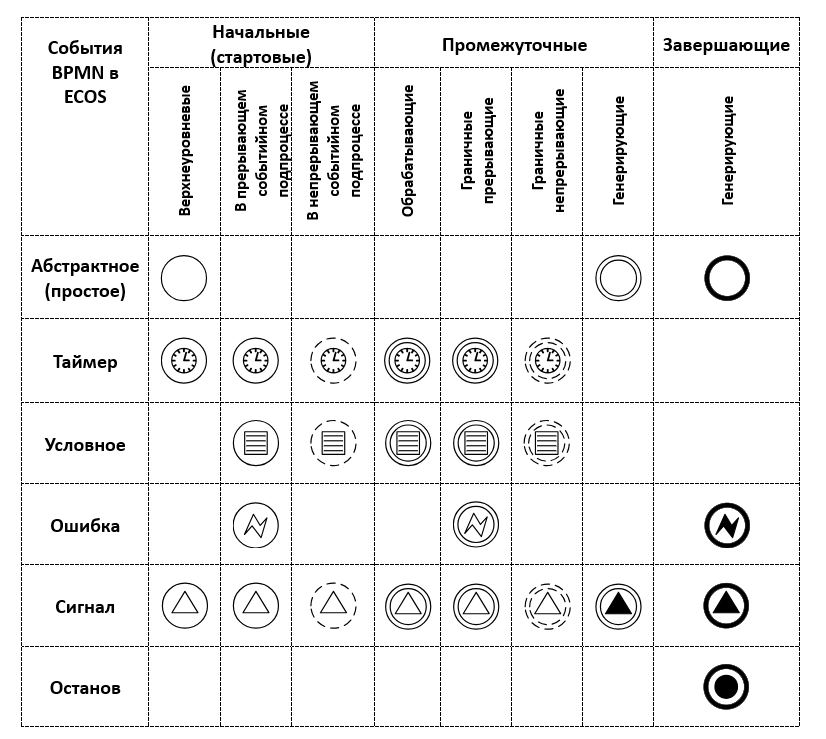
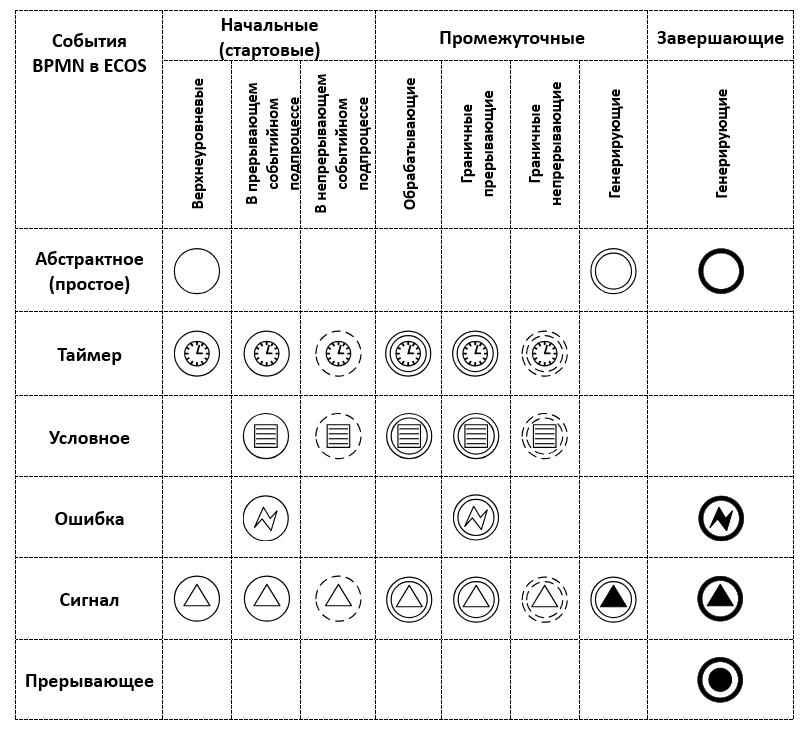
bpmn_review

diff --git a/docs/conf.py b/docs/conf.py
@@ -32,7 +32,9 @@ release = 'Ver. 4'
 extensions = [
  'sphinx.ext.mathjax',
  'sphinx_search.extension', 
+ 'myst_parser'
 ]
+
 
 # Add any paths that contain templates here, relative to this directory.
 templates_path = ['_templates']

diff --git a/docs/settings_kb/processes/ecos_bpmn/editor/ecos_bpmn_components.rst b/docs/settings_kb/processes/ecos_bpmn/editor/ecos_bpmn_components.rst
@@ -3,18 +3,99 @@
 
 .. _ecos_bpmn_components:
 
+Для перехода к соответствующему разделу кликните картинку:
+
+.. list-table::
+      :widths: 10 30
+      :class: tight-table 
+      
+      * - 
+            .. image:: _static/components/user_task.png
+                :width: 100
+                :target: :ref:`Пользовательская задача<user_task>`
+
+        - Пользовательская задача выполняется человеком. При выполнении таких задач обычно требуется ввод данных, манипуляции с объектами и т.д.
+      * - 
+            .. image:: _static/components/script_task.png
+                :width: 100
+                :target: :ref:`Скриптовая задача<script_task>`
+
+        - Задача запускает скрипт (т.е. последовательность действий) или программный код, который выполняется автоматически.
+      * - 
+
+            .. image:: _static/components/notification_task.png
+                :width: 100
+                :target: :ref:`Уведомление<notification>` 
+
+        - Задача используется для отправки уведомлений пользователям
+      * - 
+            .. image:: _static/components/service_task.png
+                :width: 100
+                :target: :ref:`Сервисная задача<service_task>`
+
+        - Задача используется для обозначения подключения сторонних сервисов, не относящихся к среде выполнения бизнес-процесса. 
+      * - 
+            .. image:: _static/components/set_status_task.png
+                :width: 100
+                :target: :ref:`Установка статуса<set_status>`
+
+        - Элемент позволяет производить смену статуса в создаваемом бизнес-процессе.
+      * - 
+            .. image:: _static/components/business_rule_task.png
+                :width: 100
+                :target: :ref:`Задача бизнес-правило<business_rule_task>`
+
+        - Задача бизнес-правило служит для вызова :ref:`решения DMN<dmn_decision>` из процесса BPMN, используется для синхронного выполнения одного или нескольких правил.
+      * - 
+            .. image:: _static/components/gateway.png
+                :width: 100
+                :target: :ref:`Шлюзы<gateways>`
+           
+        - Шлюзы контролируют поток движения в процессе. 
+      * - 
+            .. image:: _static/components/seq_flow.png
+                :width: 100
+                :target: :ref:`Потоки управления<sequential flow>`
+
+        - Поток управления используется для связи элементов потока BPMN (событий, процессов, шлюзов).
+      * - 
+            .. image:: _static/components/subprocess.png
+                :width: 100
+                :target: :ref:`Подпроцесс<sub_process>`
+
+        - Действие, которое может включать в себя: другие действия, шлюзы, события и потоки операций.
+      * - 
+            .. image:: _static/components/events.png
+                :width: 100
+                :target: :ref:`События<bpmn_events>`
+
+        - Элемент потока управления, который отражает состояние, влияющее на ход выполнения процесса. События могут инициировать действия процесса, либо являться их результатами.
+      * - 
+            .. image:: _static/components/multi_instance.png
+                :width: 100
+                :target: :ref:`Многоэкземплярная активность<multi_instance>`
+
+        - Способ определения повторения определенного шага в бизнес-процессе.
+      * - 
+            .. image:: _static/components/pool_participant.png
+                :width: 100
+                :target: :ref:`Пул и дорожка<pool>`
+
+        - Для отображения исполнителей процесса BPMN используются элементы: пул и дорожка. 
+
 .. toctree::
+    :hidden:
     :maxdepth: 3
 
     components/ecos_bpmn_components_user_task
     components/ecos_bpmn_components_script_task
     components/ecos_bpmn_components_notifications
-    components/ecos_bpmn_components_set_status
     components/ecos_bpmn_components_service_task
+    components/ecos_bpmn_components_set_status
+    components/ecos_bpmn_components_business_rule_task
     components/ecos_bpmn_components_gateway
     components/ecos_bpmn_components_seq_flow
     components/ecos_bpmn_components_events
     components/ecos_bpmn_components_sub_process
     components/ecos_bpmn_components_multi_instance
     components/ecos_bpmn_components_pool
-    components/ecos_bpmn_components_business_rule_task

diff --git a/docs/admin/keycloak_ecos_integration.rst b/docs/admin/keycloak_ecos_integration.rst
@@ -1,0 +1,67 @@
+Интеграция Ecos с сервисом аутентификации Keycloak
+===================================================
+
+Начиная с версии 2.20.0 микросервиса **ecos-model**, в приложение ECOS была добавлена возможность интеграции с сервисом аутентификации **Keycloak**. Настройка интеграции осуществляется через свойства в ``application.yml``. 
+
+Интеграция позволяет синхронизировать создание, обновление и удаление пользователей с сервисом аутентификации. До этого момента, например, после создания пользователя в ECOS, приходилось заходить в веб-интерфейс Keycloak и добавлять этого же пользователя вручную.
+
+Для реализации данного функционала, в **“dependencies”** микросервиса **ecos-model** была добавлена библиотека **“Keycloak Admin Client“**. Класс, отвечающий за синхронизацию - ``KeycloakUserService``. Синхронизация с Keycloak происходит через RESTful API. Keycloak предоставляет RESTful интерфейс, который позволяет взаимодействовать с сервером Keycloak для управления пользователями, клиентами, ролями и другими аспектами безопасности.
+
+Включение интеграции
+-------------------------
+
+По умолчанию в ``application.yml`` микросервиса **emodel** указано, что интеграция отключена:
+
+ .. image:: _static/keycloak_ecos_integration/01.png
+       :width: 300
+       :align: center
+
+Для включения интеграции необходимо установить ``integrations.keycloakAdmin.enabled=true``, а также задать остальные свойства (``url``, ``user``, ``password``), необходимые для установки связи с Keycloak и выполнения операций с помощью административного API.
+
+Для наглядности приведен docker-compose файл микросервиса keycloak используемого при локальной разработке:
+
+ .. image:: _static/keycloak_ecos_integration/02.png
+       :width: 300
+       :align: center
+
+Создание нового пользователя
+------------------------------
+
+При создании нового пользователя в ECOS, синхронизация с Keycloak происходит по следующим полям: 
+
+ - id
+ - firstName
+ - lastName
+ - email
+ - personDisabled
+  
+Созданный пользователь по умолчанию получает пароль, совпадающий с его id. При первом входе в приложение будет предложено изменить пароль.
+
+Обновление пользователя
+------------------------
+
+При обновлении существующего пользователя в ECOS, синхронизация с Keycloak происходит по следующим полям: 
+
+ - firstName
+ - lastName
+ - email
+ - personDisabled (отключение профиля пользователя в ECOS также отключит его и в keycloak)
+
+Смена пароля пользователя происходит через отдельное действие (см. ниже)
+
+
+Удаление пользователя
+-----------------------
+
+При удалении пользователя из ECOS, он также удаляется из базы Keycloak
+
+Смена пароля пользователя
+--------------------------
+
+Смена пароля пользователя осуществляется через вызов действия ``change-user-password``, с последующим вызовом формы:
+
+ .. image:: _static/keycloak_ecos_integration/03.png
+       :width: 300
+       :align: center
+
+Класс обработчик действия ``ChangePasswordActionDto`` принимает id юзера и новый пароль, после чего происходит синхронизация с Keycloak.

diff --git a/docs/settings_kb/Типы_данных.rst b/docs/settings_kb/Типы_данных.rst
@@ -362,17 +362,21 @@
       * - **Authority**
         - пользователь или группа. Это по сути базовый тип и для пользователей и для групп
       * - **Association**
-        - | связь с другой сущностью
+        - | связь с другой сущностью. 
           | По кнопке **"Настроить"** выбрать тип данных и при необходимости выставить признак дочерней ассоциации:
 
           .. image:: _static/data_types/association_type.png
                 :width: 400
                 :align: center
 
-          | Таким образом образуется двухсторонняя связь: 
-          | - от дочернего к родителю по системному атрибуту ``_parent``, 
+          | У дочерней сущности автоматически появляется ассоциация ``_parent`` 
+          | При проверке прав если для текущей сущности нету специфичных настроек прав, то проверяются родительские.
+          | При удалении родителя так же удаляются все связанные сущности.
+          | Для дочерних ассоциаций есть защита от цикличной зависимости.
+          |
+          | Таким образом образуется двухсторонняя связь:
+          | - от дочернего к родителю по системному атрибуту ``_parent``,
           | - от родителя к дочернему по настроенному атрибуту.
-          | Если ассоциация дочерняя, то при удалении родителя так же удаляются все связанные сущности.
 
       * - **Number**
         - число
@@ -897,8 +901,8 @@
         - Тестовый статус
       * - 3
         - **Форма**
-        - имя поля для отображения пользователю.
-        - Тестовый статус
+        - выбор формы для варианта создания
+        - 
       * - 4
         - **Разрешен для**
         - пользователь или группа, для которых разрешен функционал.

diff --git a/docs/settings_kb/ui_actions.rst b/docs/settings_kb/ui_actions.rst
@@ -711,33 +711,32 @@ id типа: ``mutate``
 .. code-block::
 
   {
-    "id": "change-status",
-    "name": {
-      "ru": "Изменить статус",
-      "en": "Change status"
-    },
-    "confirm":{
-      "title": {
-      "ru": "Изменить",
-      "en": "Change"
+      "id": "change-status",
+      "name": {
+        "ru": "Изменить статус",
+        "en": "Change status"
       },
-    "message":{},    
-    "formRef":"uiserv/form@change-status-form",
-    "formAttributes":{}, 
-    "attributesMapping":{   
-      "record.attributes._statuses": "status" 
+      "confirm":{
+        "title": {
+        "ru": "Изменить",
+        "en": "Change"
+        },
+      "message":{},
+      "formRef":"uiserv/form@change-status-form",
+      "formAttributes":{}, 
+      "attributesMapping":{
+        "record.attributes._status": "statuses" 
+        }
       }
-    }
-    "type": "mutate",
-    "config": {
-      "record": {
-        "id": "${recordRef}"
-        "attributes": {
-          "_statuses": "statuses"
+      "type": "mutate",
+      "config": {
+        "record": {
+          "id": "${recordRef}"
+          "attributes": {}
+          }
         }
       }
     }
-  }
 
 Форма, которая предлагается пользователю:
 

diff --git a/docs/settings_kb/interface/journals/new_journal.rst b/docs/settings_kb/interface/journals/new_journal.rst
@@ -287,11 +287,8 @@
         - |
 
               **id** 		complete-document-task
-
               **title**	{"ru":"Согласовать выбранные заявки","en":"Approve selected requests"}
-
               **type**  selected
-              
               **params** 
               
               .. code-block::
@@ -408,7 +405,7 @@
       * - a
         - **Поле поиска** 
         - | Снятый чекбокс - панель поиска по записям журнала скрыта.
-          | Если чекбокс снят, то общий запрос через url с query параметром игнорируется.
+          | Если чекбокс снят, то поисковый запрос через url с query-параметром игнорируется.
       * - b
         - **Разделители** 
         - | Разделители при поиске, чтобы в одной строке можно было указать УСЛОВИЕ_1 ИЛИ УСЛОВИЕ_2. 

diff --git a/docs/settings_kb/processes/ecos_bpmn/editor/components/events/ecos_bpmn_components_termination.rst b/docs/settings_kb/processes/ecos_bpmn/editor/components/events/ecos_bpmn_components_termination.rst
@@ -1,11 +1,11 @@
-Останов
-========
+Прерывающее
+=============
 
 .. _ecos_bpmn_termination:
 
-**Событие «Останов»** вызывает немедленное завершение выполнения процесса, при этом все его активные потоки управления прерываются. 
+**Прерывающее событие** вызывает немедленное завершение выполнения процесса, при этом все его активные потоки управления прерываются. 
 
-**Событие «Останов»** может быть только конечным событием (Terminate End Event) в процессе.
+**Прерывающее событие** может быть только конечным событием (Terminate End Event) в процессе.
 
 Выберите конечное событие и далее:
 

diff --git a/docs/index.rst b/docs/index.rst
@@ -11,6 +11,11 @@
 Документация Citeck ECOS 
 =========================
 
+.. image:: _static/ecos_logo.png
+      :width: 300
+      :target: https://www.citeck.ru/
+
+
 С использованием **Citeck ECOS** могут быть реализованы:
 
     * управление бизнес-процессами, используя встроенный конструктор BPMN;
@@ -34,9 +39,8 @@
 Далее представлены разделы базы знаний, в статьях которой подробнее описана работа со сложными и неочевидными настройками, возможностями изменения и персонализации системы.
 
 
-**Содержание**
-
 .. toctree::
+   :hidden:
    :maxdepth: 1
 
    Введение
@@ -47,4 +51,3 @@
    Общая база знаний
    Интеграции
    Мобильное приложение
-

diff --git a/docs/settings_kb/processes/ecos_bpmn/editor/components/ecos_bpmn_components_multi_instance.rst b/docs/settings_kb/processes/ecos_bpmn/editor/components/ecos_bpmn_components_multi_instance.rst
@@ -11,9 +11,9 @@ Multi instance
 
 Следующие действия могут стать действиями с несколькими экземплярами:
 
-* Пользовательская задача;
-* Задача-сценарий;
-* Подпроцесс.
+  * Пользовательская задача;
+  * Задача-сценарий;
+  * Подпроцесс.
 
 В редакторе Multi Instance можно установить следующим образом:
 

diff --git a/docs/settings_kb/processes/ecos_bpmn/editor/components/ecos_bpmn_components_events.rst b/docs/settings_kb/processes/ecos_bpmn/editor/components/ecos_bpmn_components_events.rst
@@ -138,5 +138,5 @@
                 :width: 40
                 :align: center
  
-        - :ref:`Останов <ecos_bpmn_termination>`
+        - :ref:`Прерывающее<ecos_bpmn_termination>`
         - Вызывает немедленное завершение выполнения процесса, при этом все его активные потоки управления прерываются.  

diff --git a/docs/База знаний по настройке.rst b/docs/База знаний по настройке.rst
@@ -4,7 +4,7 @@
 В разделе прдставлены статьи по настройке и конфигурации артефактов, приложений, бизнес-процессов системы.
 
 .. toctree::
-    :maxdepth: 3
+    :maxdepth: 2
 
     settings_kb/ecos_artifacts
     settings_kb/ecos_applications

diff --git a/docs/settings_kb/processes/ecos_bpmn/editor/components/ecos_bpmn_components_sub_process.rst b/docs/settings_kb/processes/ecos_bpmn/editor/components/ecos_bpmn_components_sub_process.rst
@@ -3,6 +3,8 @@
 
 .. _sub_process:
 
+**Подпроцесс BPMN** – действие, которое может включать в себя: другие действия, шлюзы, события и потоки операций.
+
  .. image:: _static/sub_process/71.png
        :width: 300
        :align: center
